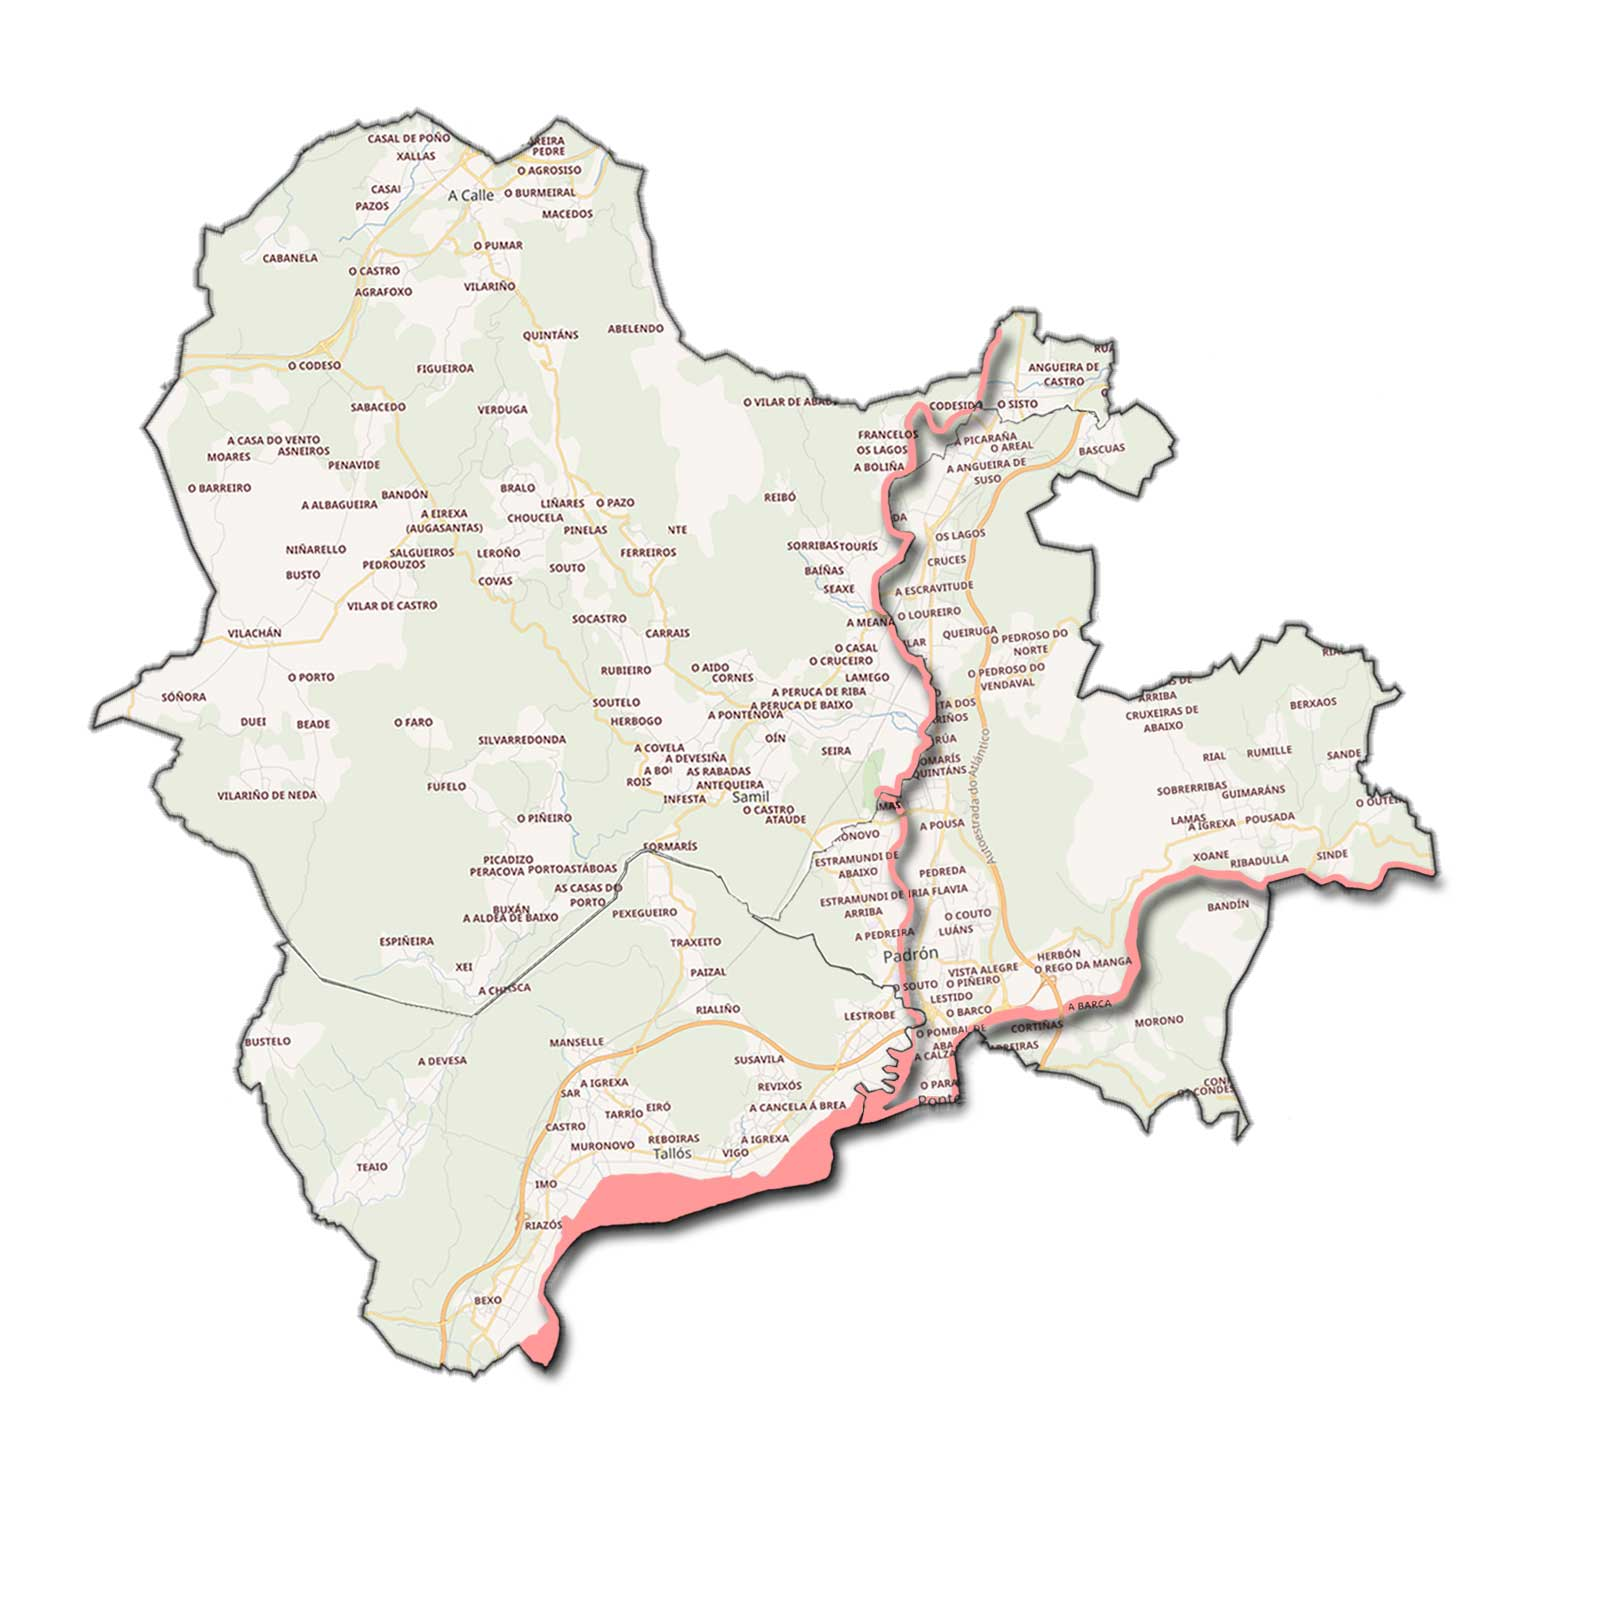
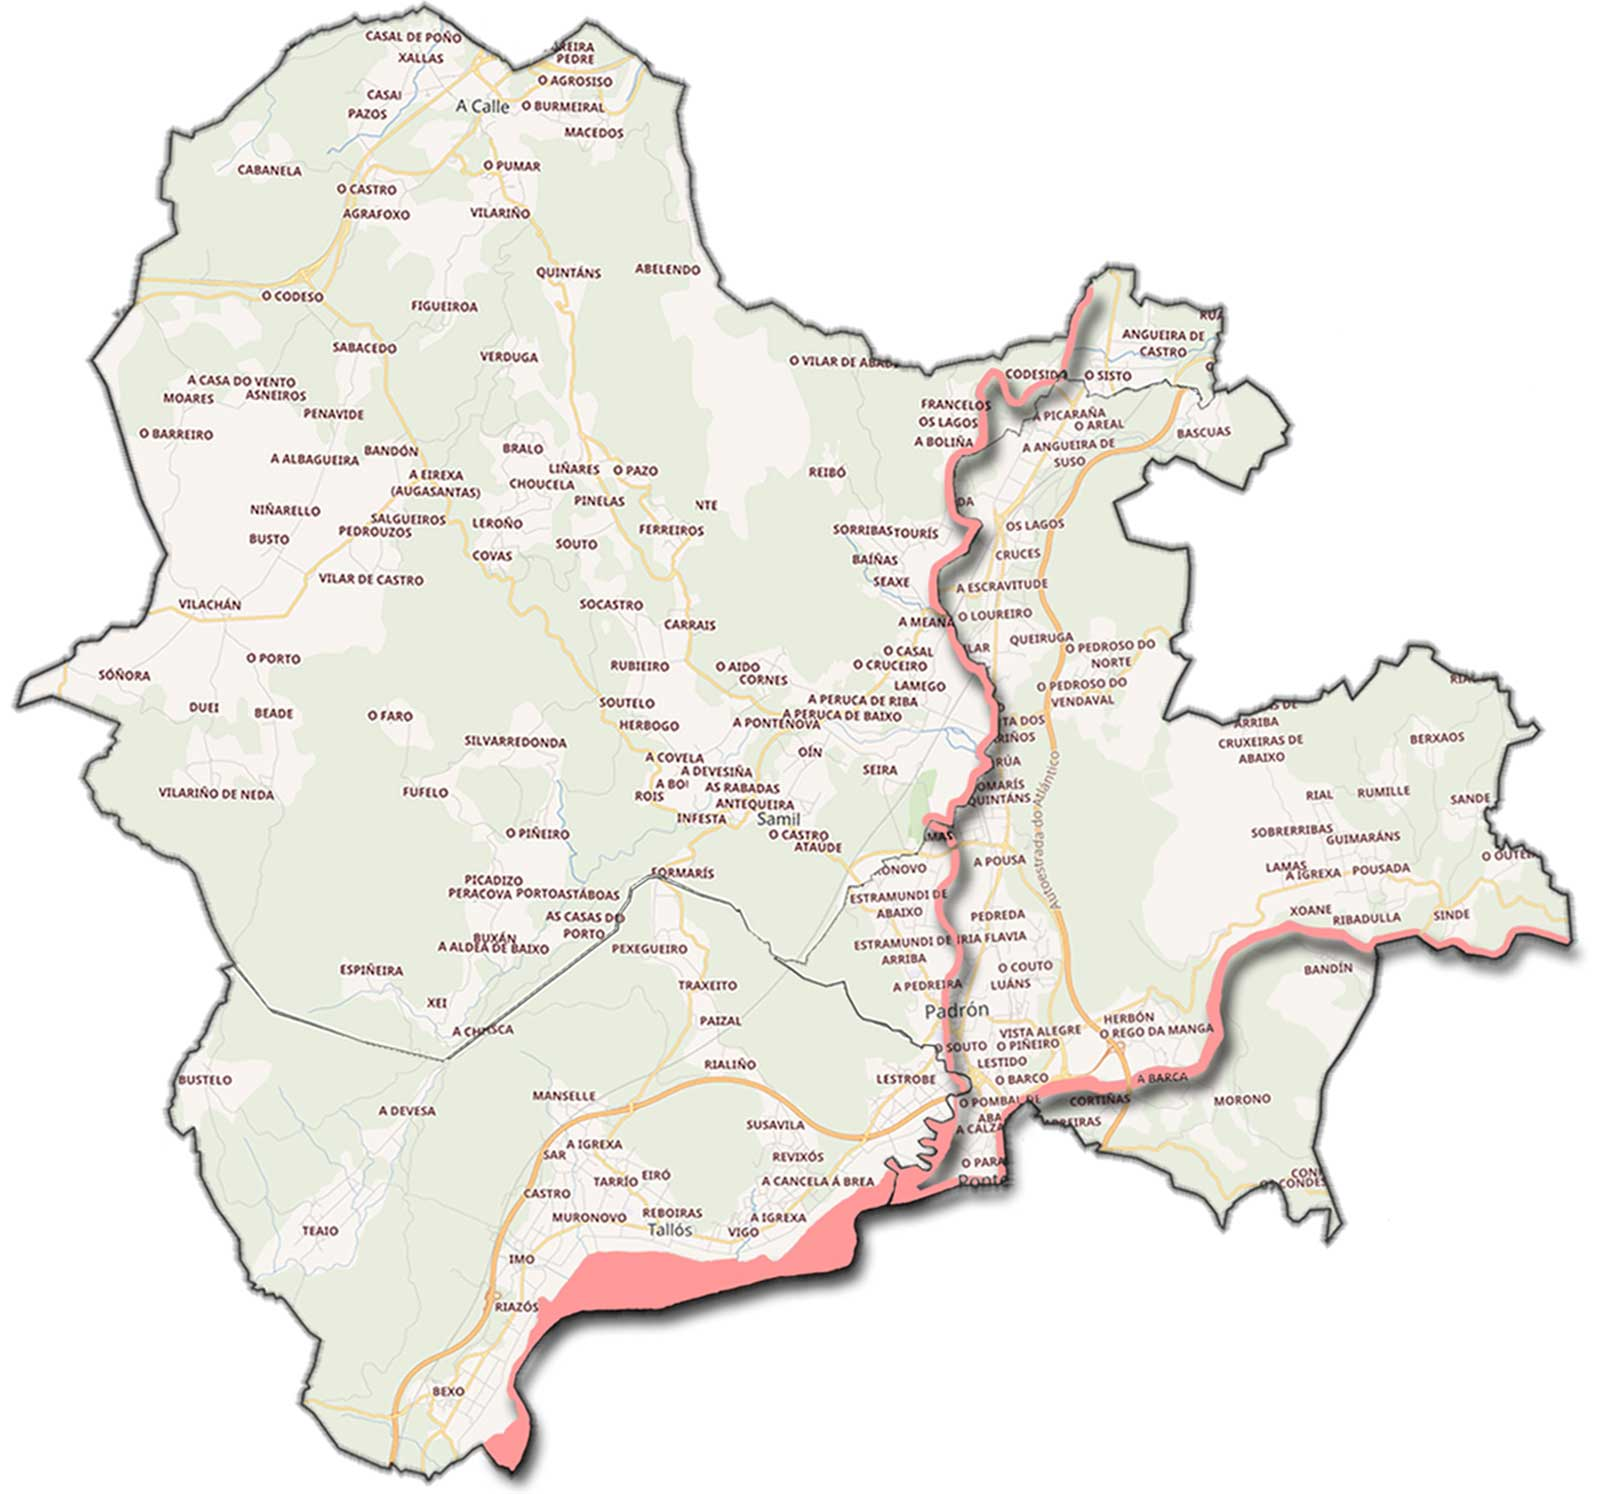
a
a

Changed region(s): [[0.0, 0.0, 1.0, 1.0], [0.2188, 0.4618, 0.2812, 0.4926]]

diff --git a/Drons/mapas_drons/zoomy.min.js b/Drons/mapas_drons/zoomy.min.js
@@ -122,6 +122,7 @@
                             height: c.height(),
                             width: c.width(),
                             position: "relative"
+
                         },
                         j = b.attr("rel"),
                         m = {};
@@ -233,7 +234,7 @@
         typeof j === "object" &&
             f === void 0 ? (f = j, j = "click") : j === void 0 && (j = "click");
         f = e.extend({
-            zoomSize: 200,
+            zoomSize: 250,
             round: false,
             glare: true,
             clickable: false,

diff --git a/assets/pages/css/zoomy.css b/assets/pages/css/zoomy.css
@@ -86,7 +86,7 @@
 }
 
 .img-arquivos .arquivos img {
-    width: 80%;
-    padding: .5em;
-    margin: auto;
+    width: 90%;
+    padding: .2em;
+    margin: 0 auto;
 }
